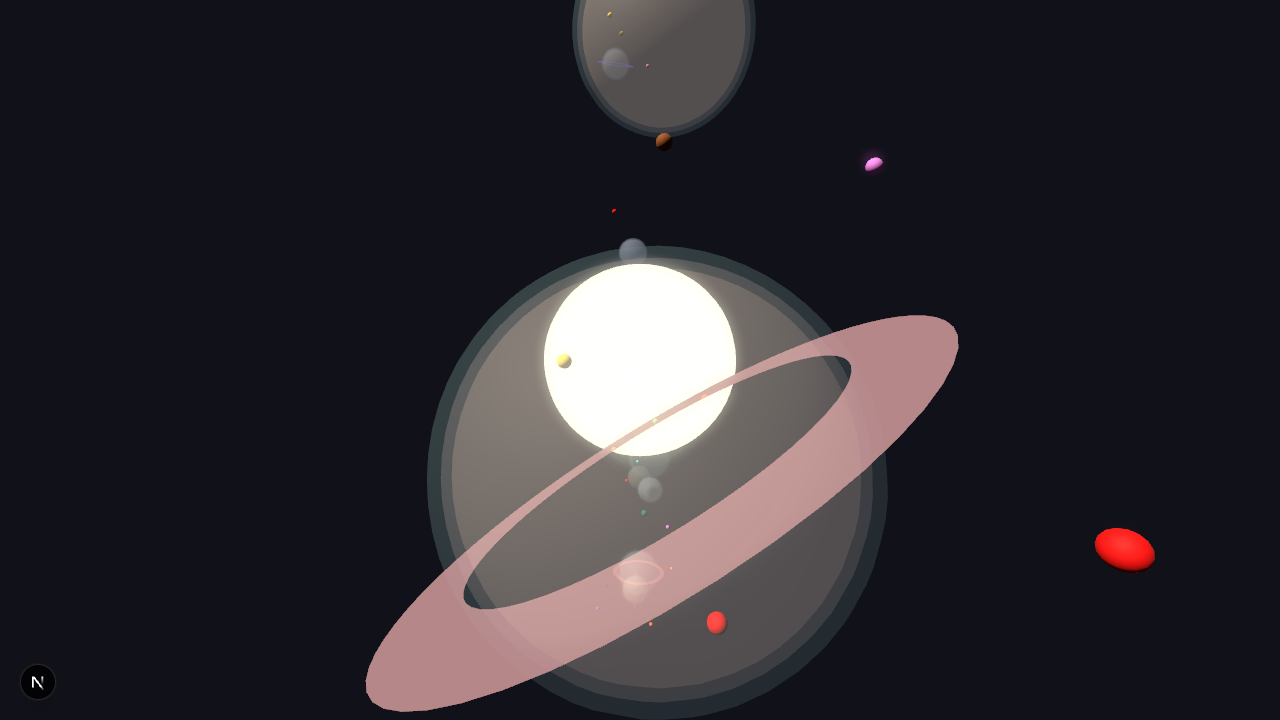
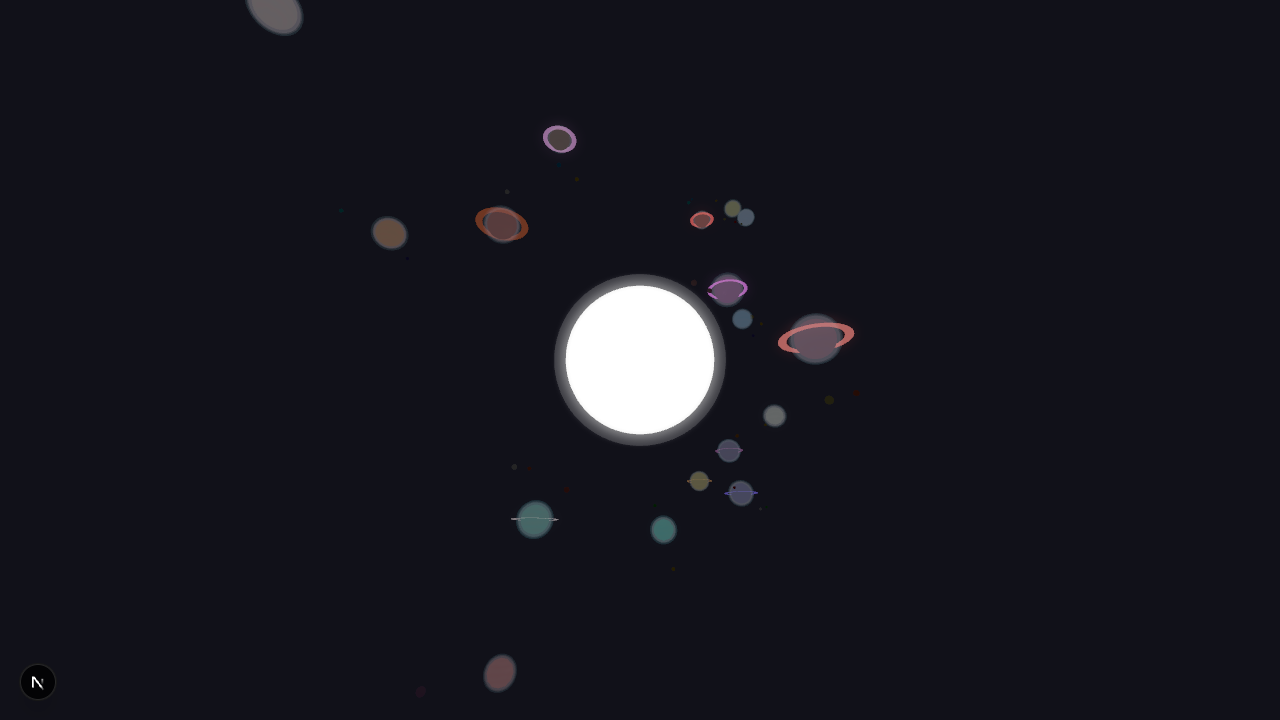
feat: Refine sun appearance, lighting, and shadows. Implement two-layer sun (core + animated atmosphere), add PointLight to sun, adjust scene lighting, ensure planets/moons cast/receive shadows, and tune Bloom effect.

diff --git a/src/app/components/Planet.tsx b/src/app/components/Planet.tsx
@@ -1,15 +1,14 @@
 import { RigidBody, RapierRigidBody } from "@react-three/rapier";
 import * as THREE from "three";
 
+import DarkSun from "@components/DarkSun";
 import { Moon } from "@components/Moon";
 
-import type { Planet as PlanetType } from "@/domain"; // Renamed to avoid conflict with component name
-
-type RigidBodyRef = React.RefObject<RapierRigidBody | null>;
+import type { Planet as PlanetType } from "@/domain";
 
 interface PlanetProps {
   planet: PlanetType;
-  planetRef: RigidBodyRef;
+  planetRef: React.RefObject<RapierRigidBody | null>;
 }
 
 const getGeometry = (
@@ -42,18 +41,12 @@ export const Planet = ({ planet, planetRef }: PlanetProps) => {
       angularVelocity={planet.angularVelocity}
       angularDamping={0}
     >
-      <group>
-        <mesh
-          castShadow={false}
-          receiveShadow={false}
-          scale={isSun ? 1.1 : 1}
-          renderOrder={999}
-          visible={isSun}
-        >
-          {getGeometry(planet.geometryType, planet.radius)}
-          {isSun ? (
-            <meshBasicMaterial color={"#fffbe6"} transparent opacity={0.95} />
-          ) : (
+      {planet.isDarkSun ? (
+        <DarkSun radius={planet.radius} />
+      ) : (
+        <group>
+          <mesh castShadow={true} receiveShadow={true}>
+            {getGeometry(planet.geometryType, planet.radius)}
             <meshStandardMaterial
               color={"white"}
               emissive={planet.color}
@@ -64,44 +57,46 @@ export const Planet = ({ planet, planetRef }: PlanetProps) => {
               metalness={planet.metalness}
               roughness={planet.roughness}
             />
-          )}
-        </mesh>
-        {!isSun &&
-          planet.atmosphereLayers?.map((layer, idx) => (
-            <mesh key={idx} castShadow receiveShadow>
-              <sphereGeometry args={[planet.radius * layer.scale, 32, 32]} />
-              <meshPhysicalMaterial
-                color={layer.color}
+          </mesh>
+          {!isSun &&
+            planet.atmosphereLayers?.map((layer, idx) => (
+              <mesh key={idx} castShadow receiveShadow>
+                <sphereGeometry args={[planet.radius * layer.scale, 32, 32]} />
+                <meshPhysicalMaterial
+                  color={layer.color}
+                  transparent
+                  opacity={layer.opacity * 0.5}
+                  transmission={0.7}
+                  thickness={0.4}
+                  roughness={0.7}
+                  metalness={0.08}
+                  depthWrite={false}
+                  blending={
+                    layer.additive
+                      ? THREE.AdditiveBlending
+                      : THREE.NormalBlending
+                  }
+                />
+              </mesh>
+            ))}
+          {!isSun && planet.hasRing && (
+            <mesh rotation={[Math.PI / 2, 0, 0]} castShadow receiveShadow>
+              <ringGeometry args={[planet.ringInner, planet.ringOuter, 64]} />
+              <meshBasicMaterial
+                color={planet.ringColor}
                 transparent
-                opacity={layer.opacity * 0.5}
-                transmission={0.7}
-                thickness={0.4}
-                roughness={0.7}
-                metalness={0.08}
-                depthWrite={false}
-                blending={
-                  layer.additive ? THREE.AdditiveBlending : THREE.NormalBlending
-                }
+                opacity={0.38}
+                side={THREE.DoubleSide}
+                blending={THREE.AdditiveBlending}
               />
             </mesh>
-          ))}
-        {!isSun && planet.hasRing && (
-          <mesh rotation={[Math.PI / 2, 0, 0]} castShadow receiveShadow>
-            <ringGeometry args={[planet.ringInner, planet.ringOuter, 64]} />
-            <meshBasicMaterial
-              color={planet.ringColor}
-              transparent
-              opacity={0.38}
-              side={THREE.DoubleSide}
-              blending={THREE.AdditiveBlending}
-            />
-          </mesh>
-        )}
-        {!isSun &&
-          planet.moons?.map((moonData, mi) => (
-            <Moon key={mi} moon={moonData} />
-          ))}
-      </group>
+          )}
+          {!isSun &&
+            planet.moons?.map((moonData, mi) => (
+              <Moon key={mi} moon={moonData} />
+            ))}
+        </group>
+      )}
     </RigidBody>
   );
 };

diff --git a/src/app/components/DarkSun.tsx b/src/app/components/DarkSun.tsx
@@ -1,0 +1,58 @@
+import { Sphere } from "@react-three/drei";
+import { useFrame } from "@react-three/fiber";
+import React, { useRef } from "react";
+import * as THREE from "three";
+
+type DarkSunProps = {
+  radius: number;
+};
+
+const DarkSun: React.FC<DarkSunProps> = ({ radius }) => {
+  const atmosphereRadiusFactor = 1.15;
+  const baseAtmosphereOpacity = 0.15;
+  const atmosphereEmissiveIntensity = 0.1;
+
+  const atmosphereMaterialRef = useRef<THREE.MeshStandardMaterial>(null!);
+
+  useFrame(({ clock }) => {
+    if (atmosphereMaterialRef.current) {
+      const opacityVariation = (Math.sin(clock.elapsedTime * 0.5) + 1) / 2;
+      atmosphereMaterialRef.current.opacity =
+        baseAtmosphereOpacity + opacityVariation * 0.1;
+    }
+  });
+
+  return (
+    <group>
+      {/* Point light originating from the sun's center */}
+      <pointLight
+        color="white"
+        intensity={15} // Start with a strong intensity, can be adjusted
+        distance={1000} // How far the light reaches, adjust based on scene scale
+        decay={2} // How the light intensity falls off with distance
+        castShadow // Enabled shadow casting
+      />
+      {/* Inner solid core */}
+      <Sphere args={[radius, 64, 64]} position={[0, 0, 0]}>
+        <meshBasicMaterial color="white" />
+      </Sphere>
+      {/* Outer transparent atmosphere */}
+      <Sphere
+        args={[radius * atmosphereRadiusFactor, 64, 64]}
+        position={[0, 0, 0]}
+      >
+        <meshStandardMaterial
+          ref={atmosphereMaterialRef}
+          color="white"
+          transparent={true}
+          opacity={baseAtmosphereOpacity}
+          emissive="white"
+          emissiveIntensity={atmosphereEmissiveIntensity}
+          depthWrite={false}
+        />
+      </Sphere>
+    </group>
+  );
+};
+
+export default DarkSun;

diff --git a/src/app/components/Scene.tsx b/src/app/components/Scene.tsx
@@ -32,15 +32,15 @@ const CanvasContent = ({ myId }: { myId: string }) => {
     <>
       <EffectComposer>
         <Bloom
-          luminanceThreshold={0.25}
-          luminanceSmoothing={0.8}
-          intensity={0.35}
+          luminanceThreshold={0.05}
+          luminanceSmoothing={0.2}
+          intensity={0.5}
         />
       </EffectComposer>
       <group>
         <ambientLight intensity={0.08} />
         <Eyes myId={myId} />
-        <directionalLight
+        {/* <directionalLight
           position={[100, 100, 100]}
           intensity={6}
           color={"#fffbe6"}
@@ -55,7 +55,7 @@ const CanvasContent = ({ myId }: { myId: string }) => {
           shadow-camera-top={1000}
           shadow-camera-bottom={-1000}
           target-position={[0, 0, 0]}
-        />
+        /> */}
       </group>
       <OrbitControls
         enablePan={false}

diff --git a/src/hooks/usePlanetData.ts b/src/hooks/usePlanetData.ts
@@ -27,8 +27,8 @@ export const usePlanetData = (bumpMaps: THREE.Texture[] | null): Planet[] => {
     const sunData = (() => {
       const radius = centralRadius * 2;
       const mass = Math.pow(radius, 3) * (8 + Math.random() * 2) * 2;
-      const baseColor = "gold";
-      const altColor = "white";
+      const baseColor = "#200020";
+      const altColor = "#400040";
       const seed = Math.random() * 10000;
       const bumpMap = bumpMaps[Math.floor(Math.random() * bumpMaps.length)];
       const colorMap = generateColorMap(seed, baseColor, altColor);
@@ -70,6 +70,7 @@ export const usePlanetData = (bumpMaps: THREE.Texture[] | null): Planet[] => {
         atmosphereLayers,
         geometryType,
         angularVelocity,
+        isDarkSun: true,
       };
     })();
 

diff --git a/src/domain/planet.ts b/src/domain/planet.ts
@@ -40,6 +40,7 @@ export const PlanetSchema = z.object({
   atmosphereLayers: z.array(AtmosphereLayerSchema),
   geometryType: z.enum(["sphere", "lowpoly", "oblate"]),
   angularVelocity: z.tuple([z.number(), z.number(), z.number()]),
+  isDarkSun: z.boolean().optional(),
 });
 
 export type Planet = z.infer<typeof PlanetSchema>;
